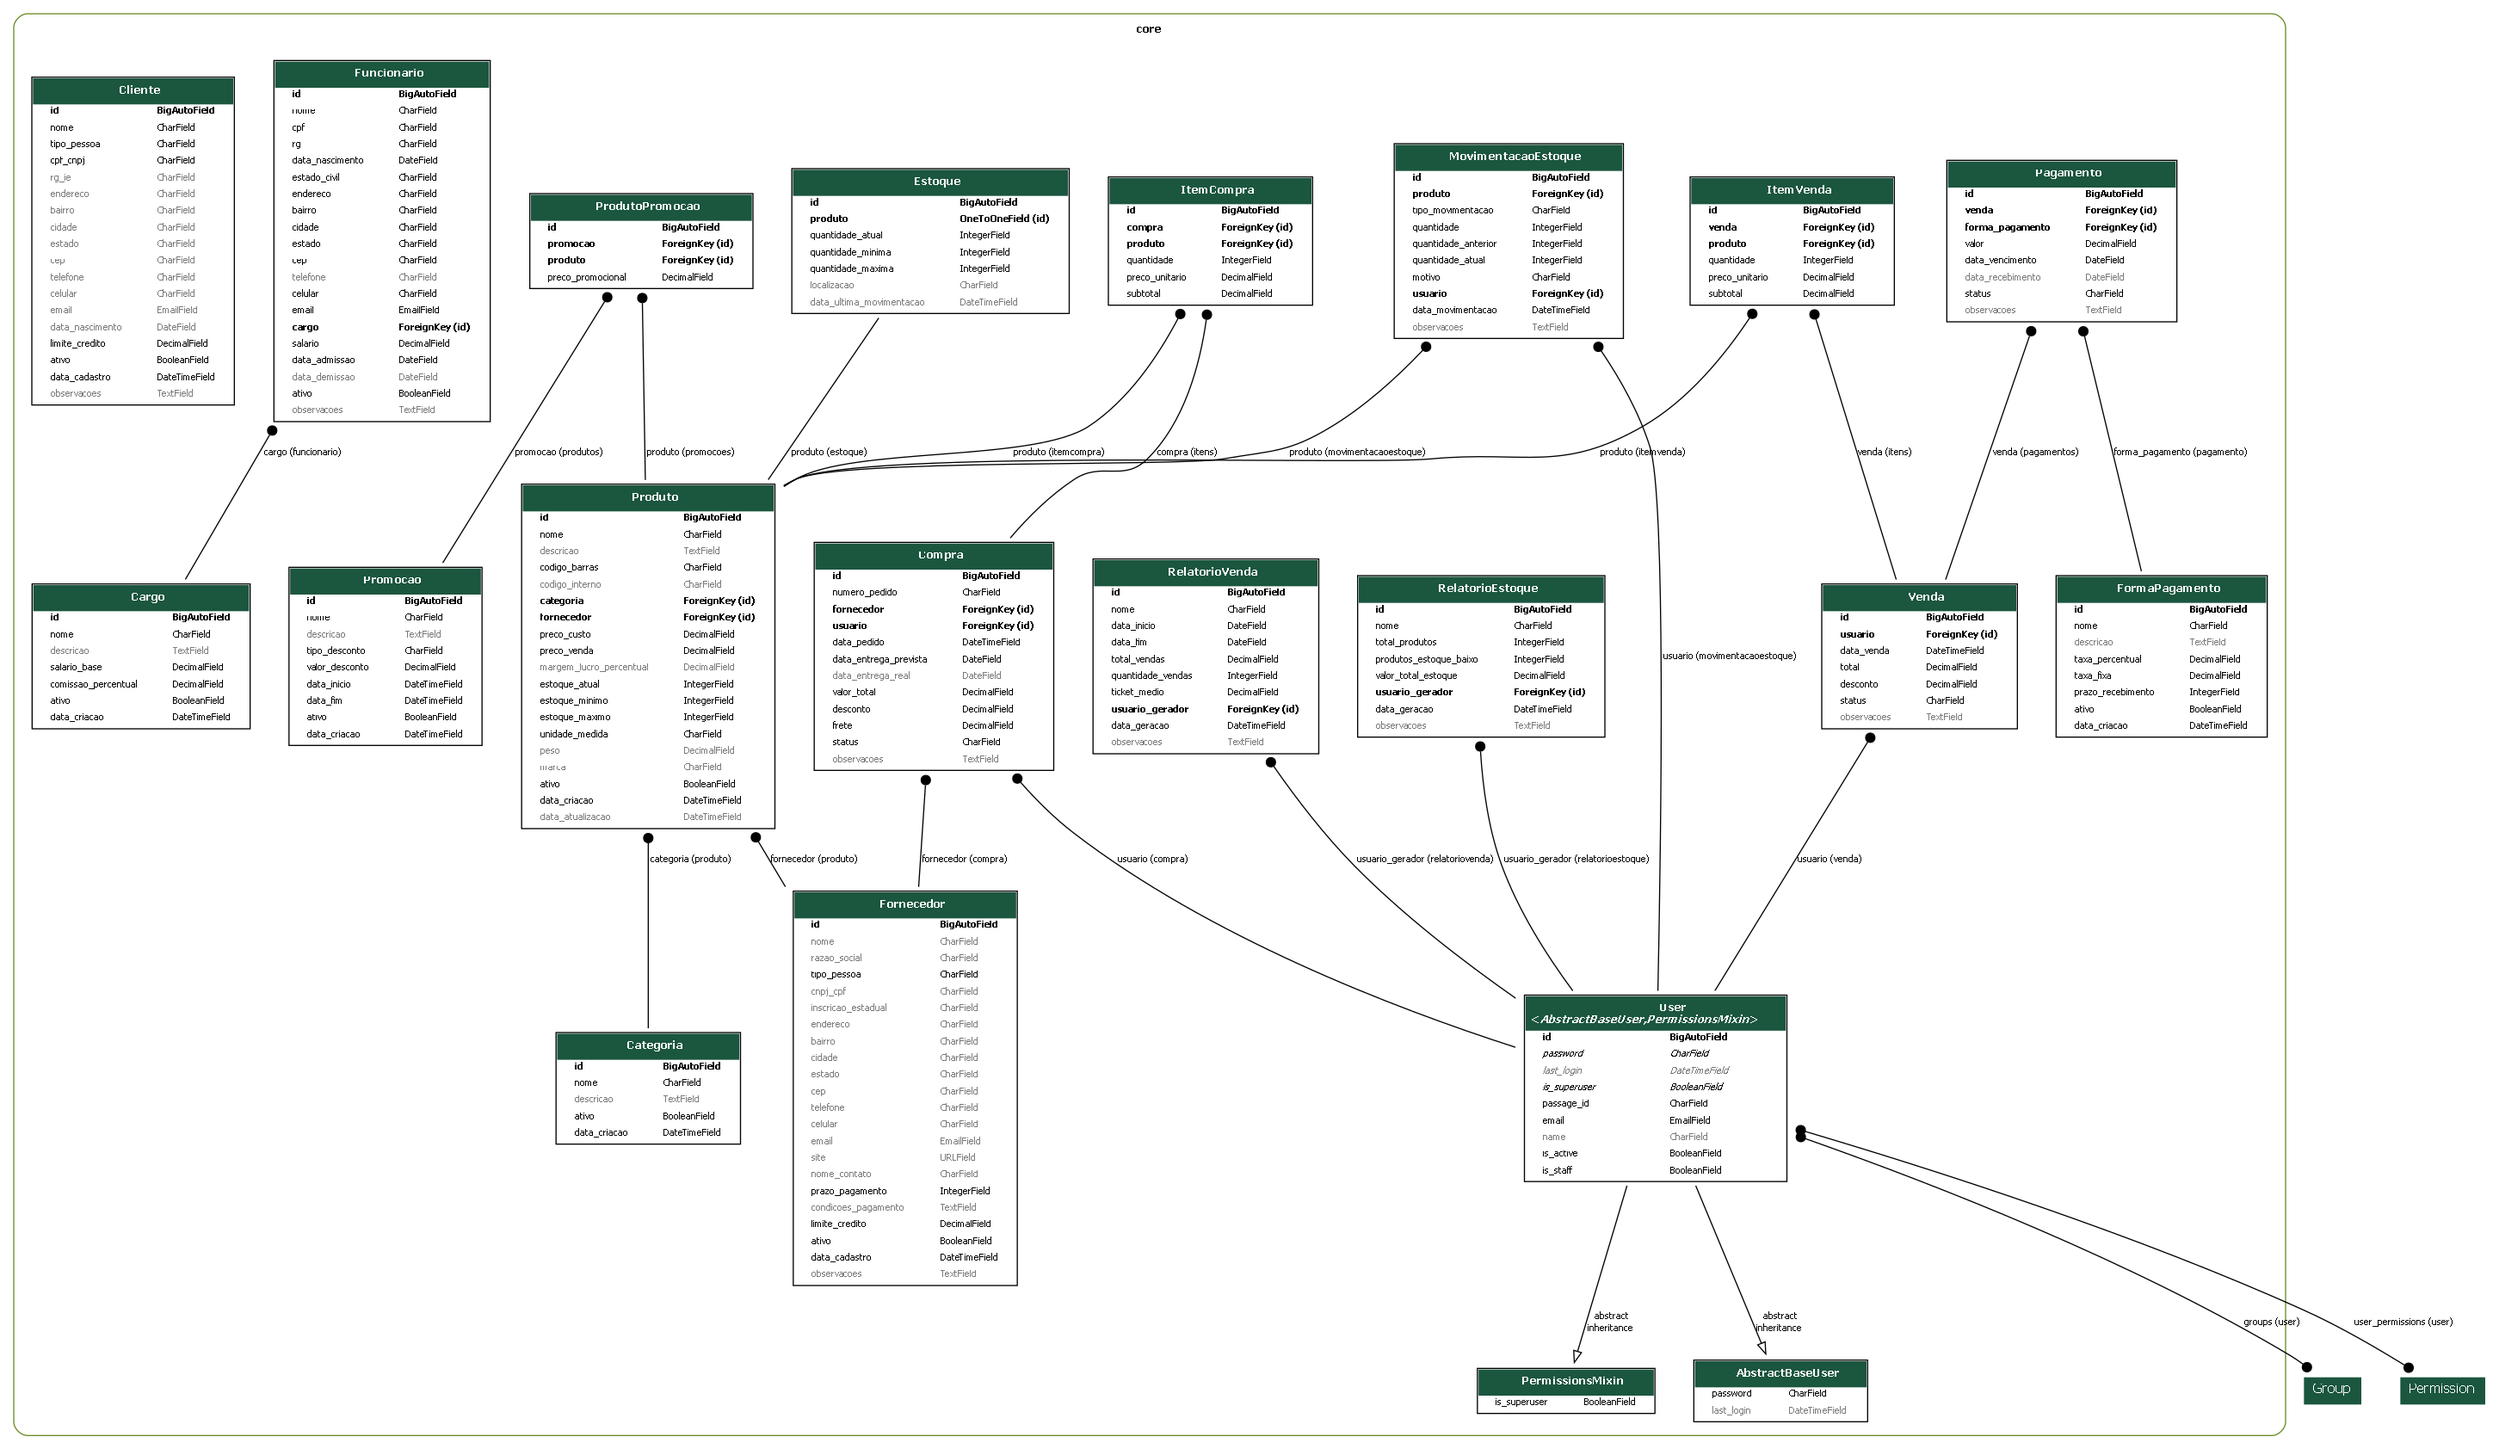
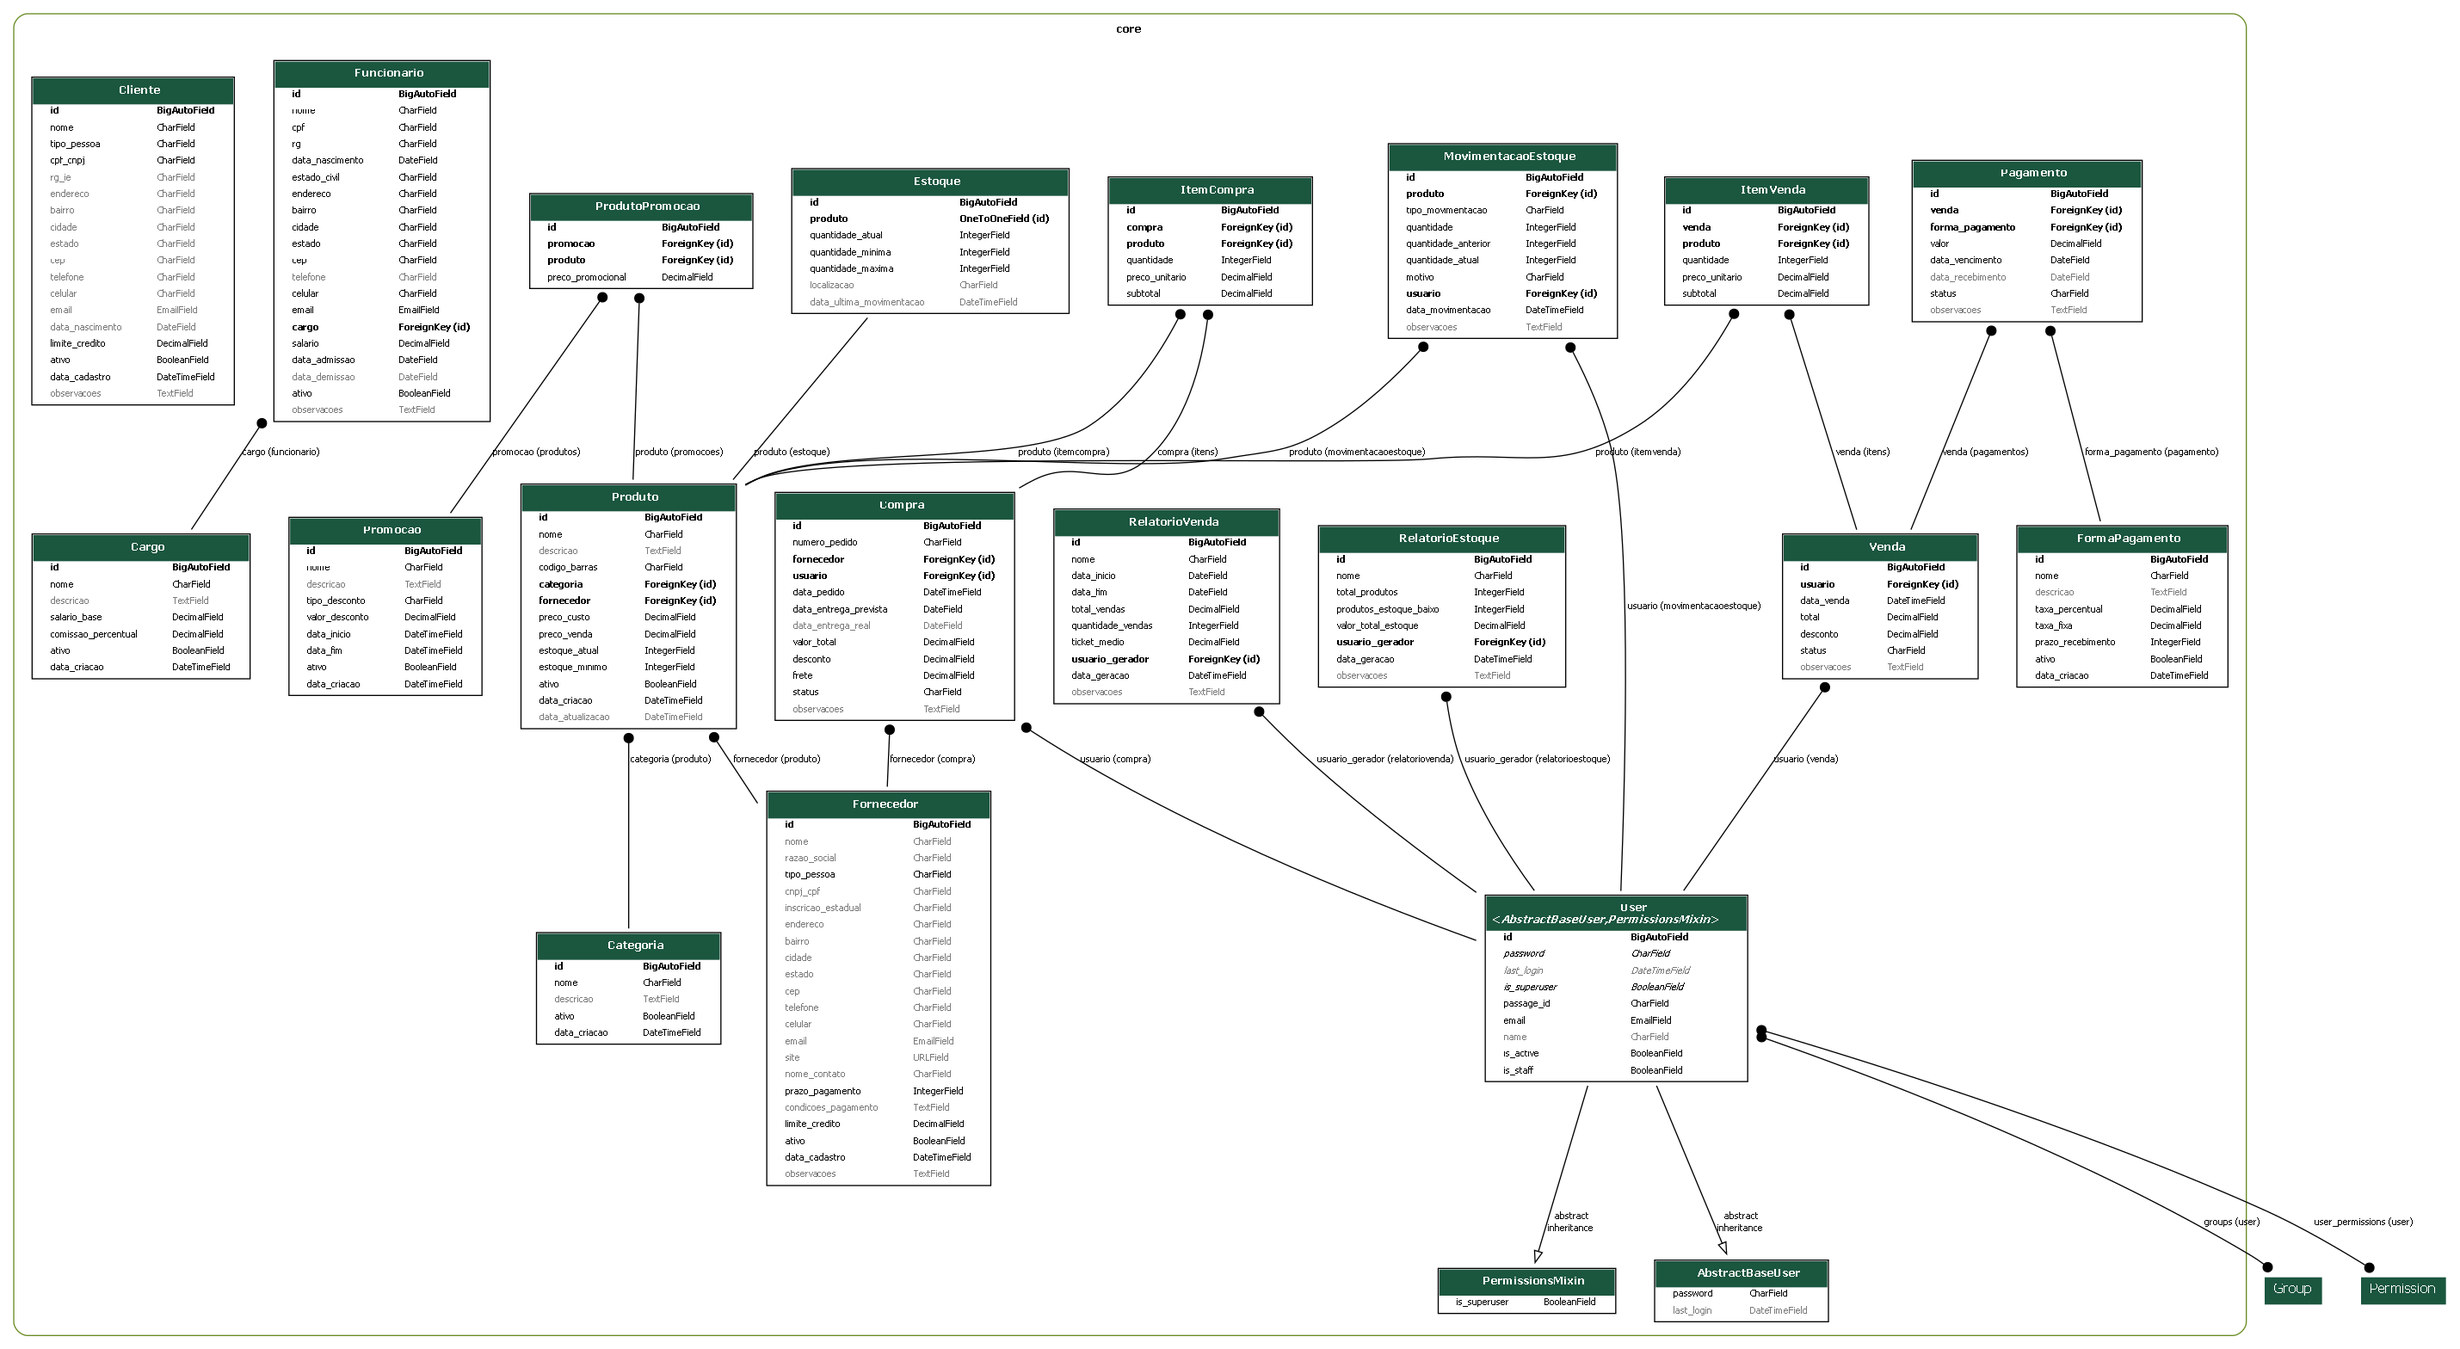
update

diff --git a/core/migrations/0007_cargo_categoria_cliente_compra_estoque_and_more.py b/core/migrations/0007_cargo_categoria_cliente_compra_estoque_and_more.py
@@ -1,4 +1,4 @@
-# Generated by Django 5.1.7 on 2025-06-16 17:14
+# Generated by Django 5.1.7 on 2025-06-16 23:36
 
 import django.db.models.deletion
 import django.utils.timezone
@@ -225,17 +225,11 @@ class Migration(migrations.Migration):
                 ('nome', models.CharField(help_text='Nome do produto.', max_length=200)),
                 ('descricao', models.TextField(blank=True, help_text='Descrição do produto.')),
                 ('codigo_barras', models.CharField(help_text='Código de barras único do produto.', max_length=50, unique=True)),
-                ('codigo_interno', models.CharField(blank=True, help_text='Código interno do produto.', max_length=50)),
                 ('preco_custo', models.DecimalField(decimal_places=2, help_text='Preço de custo do produto.', max_digits=10)),
                 ('preco_venda', models.DecimalField(decimal_places=2, help_text='Preço de venda do produto.', max_digits=10)),
-                ('margem_lucro_percentual', models.DecimalField(blank=True, decimal_places=2, help_text='Margem de lucro em %.', max_digits=5, null=True)),
                 ('estoque_atual', models.IntegerField(default=0, help_text='Quantidade atual em estoque.')),
                 ('estoque_minimo', models.IntegerField(default=5, help_text='Quantidade mínima em estoque.')),
-                ('estoque_maximo', models.IntegerField(default=1000, help_text='Quantidade máxima em estoque.')),
-                ('unidade_medida', models.CharField(default='UN', help_text='Unidade de medida (UN, KG, L, etc).', max_length=10)),
-                ('peso', models.DecimalField(blank=True, decimal_places=3, help_text='Peso do produto em KG.', max_digits=8, null=True)),
-                ('marca', models.CharField(blank=True, help_text='Marca do produto.', max_length=100)),
-                ('ativo', models.BooleanField(default=True, help_text='Produto ativo.')),
+                ('ativo', models.BooleanField(default=True, help_text='Indica se o produto está ativo.')),
                 ('data_criacao', models.DateTimeField(default=django.utils.timezone.now)),
                 ('data_atualizacao', models.DateTimeField(auto_now=True)),
                 ('categoria', models.ForeignKey(help_text='Categoria do produto.', on_delete=django.db.models.deletion.CASCADE, to='core.categoria')),
